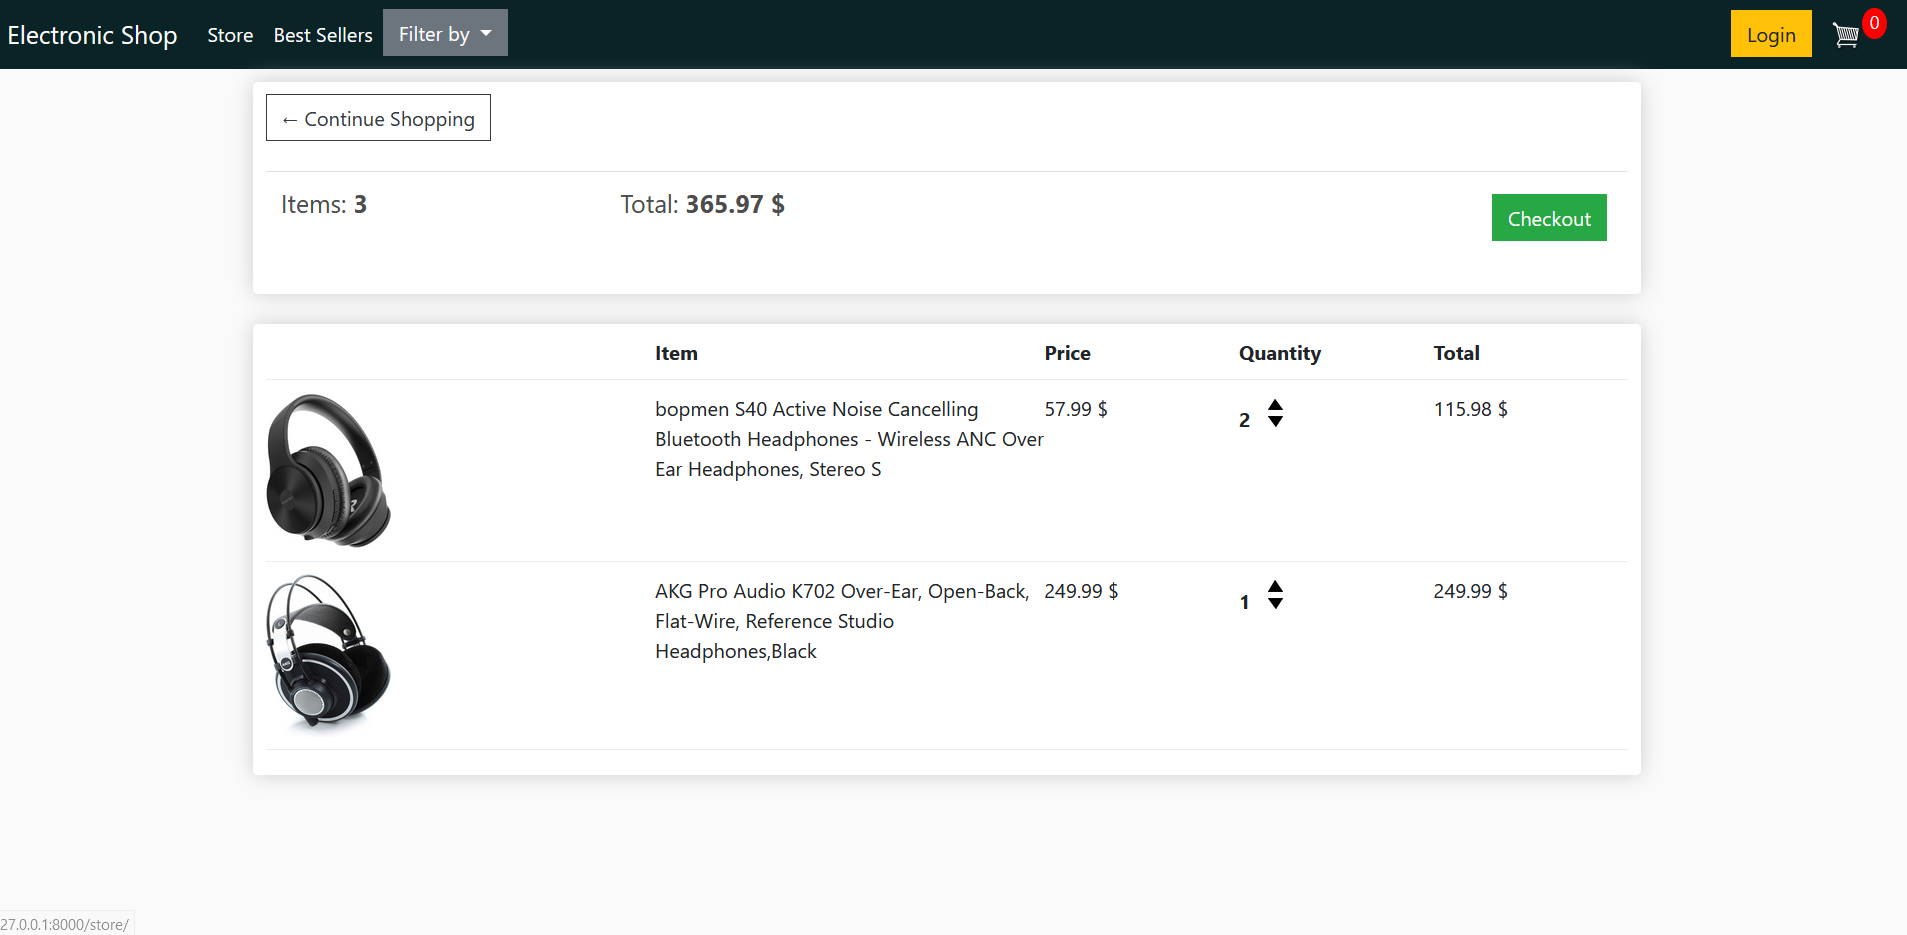
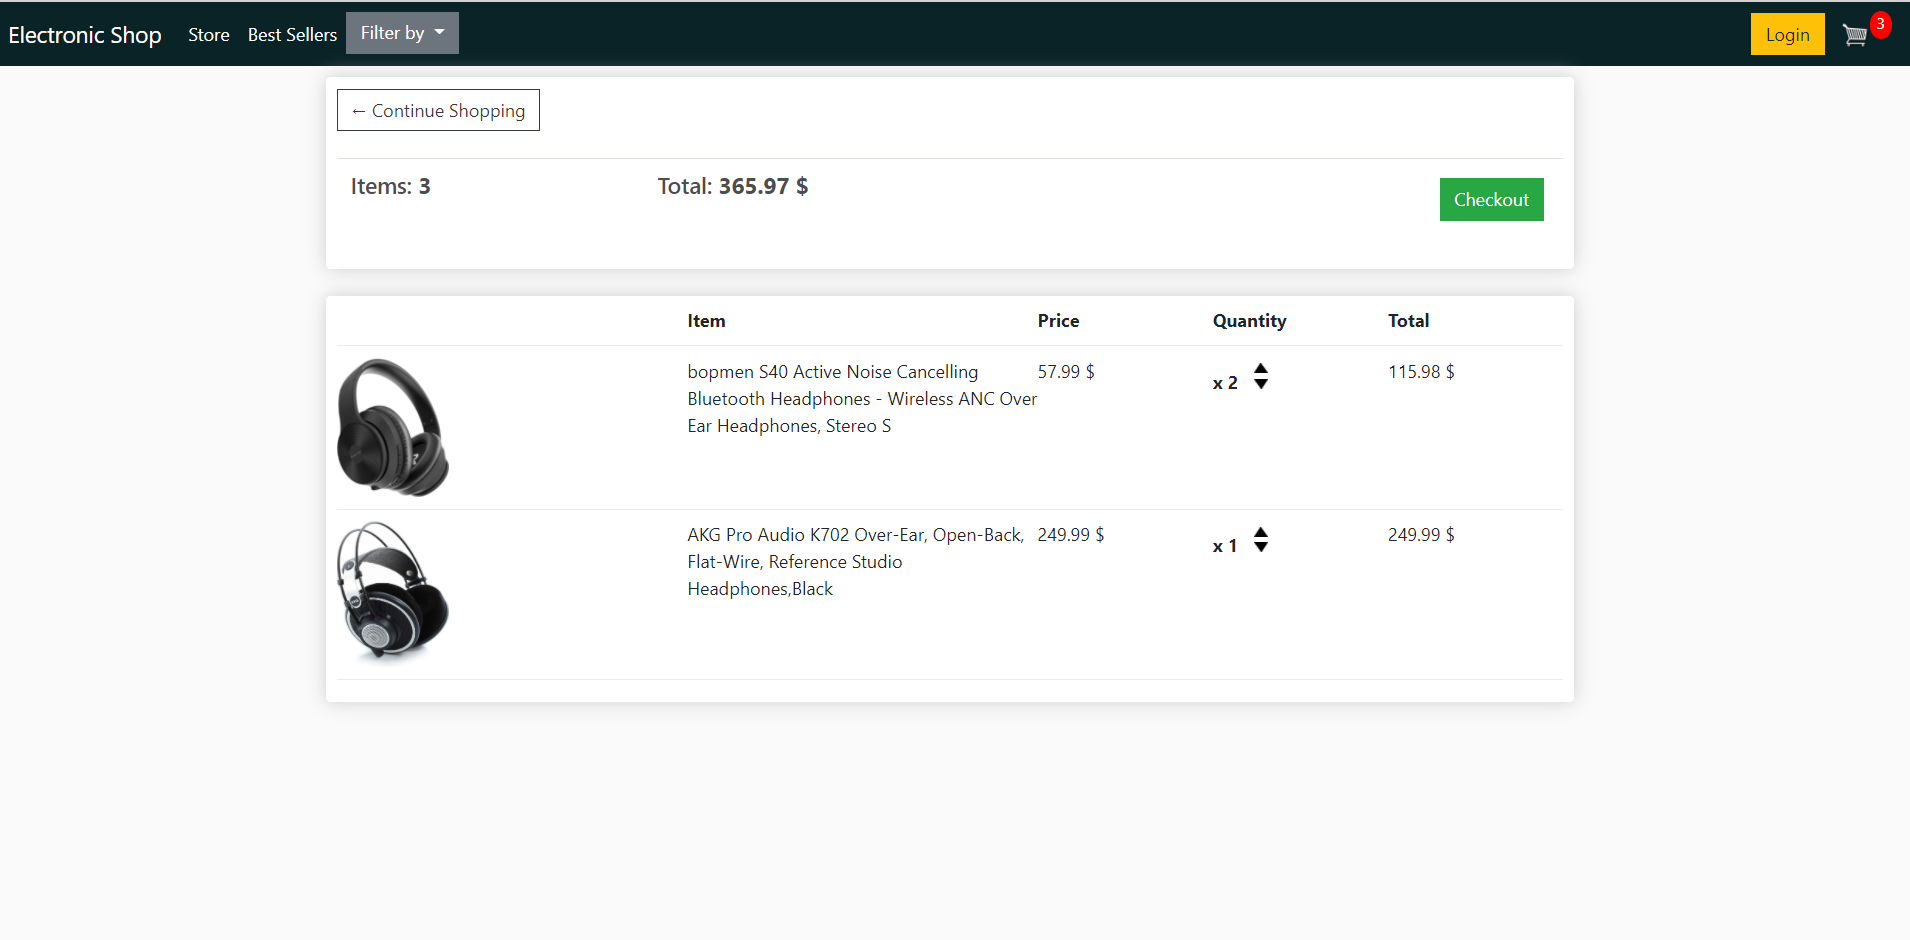
eventhandlering on buttons js

diff --git a/store/templates/store/base.html b/store/templates/store/base.html
@@ -9,6 +9,31 @@
 	<!---- CSS Link------->
     <link rel="stylesheet" type="text/css" href="{% static 'css/base.css' %}">
 
+
+    <!--- user cookies ---->
+    <script type="text/javascript">
+       var user = '{{request.user}}';
+
+       function getToken(name){
+            var cookieValue = null;
+            if(document.cookie && document.cookie !==''){
+                var cookies = document.cookie.split(';');
+
+                for(var i=0; i<cookies.length; i++){
+                    var cookie = cookies[i].trim();
+
+                    if (cookie.substring(0, name.length +1) === (name +'=') ){
+                        cookieValue = decodeURIComponent(cookie.substring(name.length +1));
+                        break;
+                    }
+                }
+            }
+            return cookieValue;
+        }
+
+        var csrftoken = getToken('csrftoken');
+    </script>
+
 </head>
 <body>
     <!-----Navbar-------->
@@ -27,7 +52,22 @@
 	<script src="https://cdn.jsdelivr.net/npm/popper.js@1.16.0/dist/umd/popper.min.js" integrity="sha384-Q6E9RHvbIyZFJoft+2mJbHaEWldlvI9IOYy5n3zV9zzTtmI3UksdQRVvoxMfooAo" crossorigin="anonymous"></script>
 	<script src="https://stackpath.bootstrapcdn.com/bootstrap/4.4.1/js/bootstrap.min.js" integrity="sha384-wfSDF2E50Y2D1uUdj0O3uMBJnjuUD4Ih7YwaYd1iqfktj0Uod8GCExl3Og8ifwB6" crossorigin="anonymous"></script>
 
-     <!--- JS file for cart event handling----->
-     <script type="text/javascript" src="{% static 'js/cart.js' %}"></script>
+    <!--- JS file for cart event handling----->
+    <script type="text/javascript" src="{% static 'js/cart.js' %}"></script>
+
+     <script>
+        //  //add event handler
+        //  var updatebutton = document.getElementsByClassName('update-cart')
+        //  for(var i =0; i< updatebutton.length; i++){
+        //      updatebutton[i].addEventListener('click', function(){
+        //         var product_id = this.dataset.product;
+        //         var action = this.dataset.action;
+        //         console.log('product_id', product_id, 'action', action)
+        //      });
+
+        //  }
+
+     </script>
+
 </body>
 </html>

diff --git a/store/static/js/cart.js b/store/static/js/cart.js
@@ -1,1 +1,46 @@
-console.log("HHHHHHHHHHH")
+var updatebutton = document.getElementsByClassName('update-cart')
+for(var i =0; i< updatebutton.length; i++){
+    updatebutton[i].addEventListener('click', function(){
+       var product_id = this.dataset.product;
+       var action = this.dataset.action;
+       console.log('product_id', product_id, 'action', action)
+
+
+       console.log('user', user)
+
+       if (user === 'AnonymousUser'){
+           console.log('Not logged in')
+       } else {
+           //console.log('User is logged in')
+           updateUserOrder(product_id, action)
+       }
+    });
+
+}
+
+
+function updateUserOrder(productId, action){
+    console.log('updating')
+
+    var url='/updateitem/'
+
+    fetch(url,{
+        method: 'POST',
+        headers: {
+            'Content-Type': 'application/json',
+            'X-CSRFTOKEN' : csrftoken,
+        },
+        body: JSON.stringify({'productId': productId, 'action': action})
+    })
+
+    // give a response
+    .then((response) =>{
+        return response.json()
+    })
+
+
+    .then((data)=>{
+        console.log('data', data);
+        location.reload();
+    })
+}

diff --git a/store/templates/store/store.html b/store/templates/store/store.html
@@ -10,7 +10,7 @@
 				<h6><strong>{{ product.name }}</strong></h6>
 				<hr>
 
-				<button  class="btn btn-outline-secondary add-btn">Add to Cart</button>
+				<button data-product="{{product.id}}" data-action="add"  class="btn btn-outline-secondary add-btn update-cart">Add to Cart</button>
 				<a class="btn btn-outline-success" href="#">View</a>
 				<h4 style="display: inline-block; float: right"><strong>{{ product.price }} $</strong></h4>
 

diff --git a/store/templates/store/checkout.html b/store/templates/store/checkout.html
@@ -58,7 +58,7 @@
 					<div style="flex:2"><img class="row-image" src="{{item.product.imageURL}}"></div>
 					<div style="flex:2"><p>{{ item.product.name }}</p></div>
 					<div style="flex:1"><p>{{ item.product.price }} $</p></div>
-					<div style="flex:1"><p> {{ item.product.quantity }}</p></div>
+					<div style="flex:1"><p> x{{ item.product.quantity }}</p></div>
 				</div>
 				{% endfor %}
 				<h5>Items:  {{order.get_cart_items}} </h5>

diff --git a/store/templates/store/partials/_navbar.html b/store/templates/store/partials/_navbar.html
@@ -35,7 +35,7 @@
 	     	<a href="{% url 'cart' %}">
 	    		<img  id="cart-icon" src="{% static 'img/cart.png' %}">
 	    	</a>
-	    	<p id="cart-total">0</p>
+	    	<p id="cart-total">{{cartItems}}</p>
 
 	    </div>
 	  </div>

diff --git a/store/views.py b/store/views.py
@@ -1,5 +1,10 @@
 from django.shortcuts import render
 from .models import *
+
+from django.http import JsonResponse
+import json
+
+
 # Create your views here.
 
 
@@ -13,11 +18,13 @@ def cart(request):
         customer = request.user.customer
         order, created = Order.objects.get_or_create(costumer=customer, complete=False)
         items = order.orderitem_set.all()
+        cartItems = order.get_cart_items
     else:
         items = []
-        order = {'get_cart_total':0, 'get_cart_items':0}
+        order = {'get_cart_total':0, 'get_cart_items':0, 'shipping' :False}
+        cartItems = order['get_card_items']
         
-    context = {'items': items, 'order': order}
+    context = {'items': items, 'order': order,'cartItems':cartItems}
     return render(request, 'store/cart.html', context)
 
 
@@ -28,11 +35,13 @@ def checkout(request):
         customer = request.user.customer
         order, created = Order.objects.get_or_create(costumer=customer, complete=False)
         items = order.orderitem_set.all()
+        cartItems = order.get_cart_items
     else:
         items = []
-        order = {'get_cart_total':0, 'get_cart_items':0}
+        order = {'get_cart_total':0, 'get_cart_items':0, 'shipping' :False}
+        cartItems = order['get_card_items']
         
-    context = {'items': items, 'order': order}
+    context = {'items': items, 'order': order,'cartItems':cartItems}
     return render(request, 'store/checkout.html', context)
 
 
@@ -42,6 +51,48 @@ def checkout(request):
 def store(request):
 
     # getting all the attributes from products database
+    if request.user.is_authenticated:
+        customer = request.user.customer
+        order, created = Order.objects.get_or_create(costumer=customer, complete=False)
+        items = order.orderitem_set.all()
+        cartItems = order.get_cart_items
+    else:
+        items = []
+        order = {'get_cart_total':0, 'get_cart_items':0, 'shipping' :False}
+        cartItems = order['get_card_items']
+
+
+
     products = Product.objects.all()
-    context = { 'products':products}
+    context = { 'products':products, 'cartItems':cartItems}
     return render(request, 'store/store.html', context)
+
+
+
+def updatedItem(request):
+    data = json.loads(request.body)
+    productId = data['productId'] # through cookies we get in backed end the presed id f the product
+    action = data['action']
+    print(productId)
+    print(action)
+
+
+    customer = request.user.customer
+    product = Product.objects.get(id=productId)
+
+    # create the order if its not created, otherwise add the quantity
+    orderm, created = orderItem.objects.get_or_create(order=order, complete=False)
+    orderItem, created = orderItem.objects.get_or_create(order=order, product=product)
+
+    if action == 'add':
+        orderItem.quantity = (orderItem.quantity +1)
+    elif action == 'remove':
+        orderItem.quantity = (orderItem.quantity -1)
+
+    orderItem.save()
+
+    if orderItem.quantity <= 0:
+        orderItem.delete()
+
+
+    return JsonResponse('Item was added', safe=False)

diff --git a/store/models.py b/store/models.py
@@ -61,6 +61,16 @@ class Order(models.Model):
         return total
     
 
+    @property
+    def shipping(self):
+        shipping = False
+        orderitems = self.orderitem_set.all()  
+        for i in orderitems:
+            if i.product.digital == False:
+                shipping = True 
+
+        return shipping
+
 
 # order item model
 class OrderItem(models.Model):

diff --git a/ElectronicWebShop/urls.py b/ElectronicWebShop/urls.py
@@ -27,6 +27,9 @@ urlpatterns = [
     path('store/', views.store, name='store'),
     path('checkout/', views.checkout, name='checkout'),
     path('cart/', views.cart, name='cart'),
+
+
+     path('updateitem/', views.updatedItem, name='updateitem'),
 ]
 
 

diff --git a/readme.md b/readme.md
@@ -37,4 +37,3 @@ Order Cart checkout:
 
 
 Shipping :
-<img src="orderitems_total.png" alt="">
